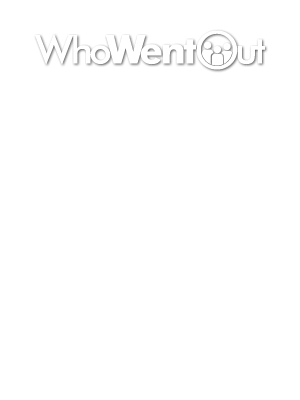
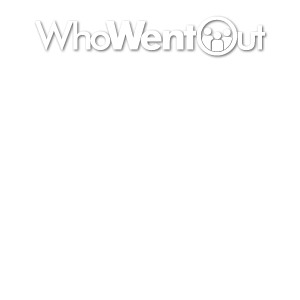
squeezed homepage closer together

Changed region(s): [[0.12, 0.06, 0.9, 0.21]]

diff --git a/fire/browser/brower.class.php b/fire/browser/brower.class.php
@@ -21,6 +21,7 @@ class browser
 
     static function is_mobile()
     {
+        return true;
         if(preg_match('/(alcatel|amoi|android|avantgo|blackberry|benq|cell|cricket|docomo|elaine|htc|iemobile|iphone|ipaq|ipod|j2me|java|midp|mini|mmp|mobi|motorola|nec-|nokia|palm|panasonic|philips|phone|sagem|sharp|sie-|smartphone|sony|symbian|t-mobile|telus|up\.browser|up\.link|vodafone|wap|webos|wireless|xda|xoom|zte)/i', $_SERVER['HTTP_USER_AGENT']))
             return true;
         else

diff --git a/whowentout/views/home.tpl.php b/whowentout/views/home.tpl.php
@@ -41,11 +41,11 @@
     <div class="home_center">
 
         <?php if (browser::is_desktop()): ?>
-        <img src="/images/home.png?version=20" />
+        <img src="/images/home.png?version=21" />
         <?php endif; ?>
 
         <?php if (browser::is_mobile()): ?>
-        <img src="/images/home_mobile.png?version=20" />
+        <img src="/images/home_mobile.png?version=21" />
         <?php endif; ?>
 
         <a href="/login" class="login_button">Login with Facebook</a>
